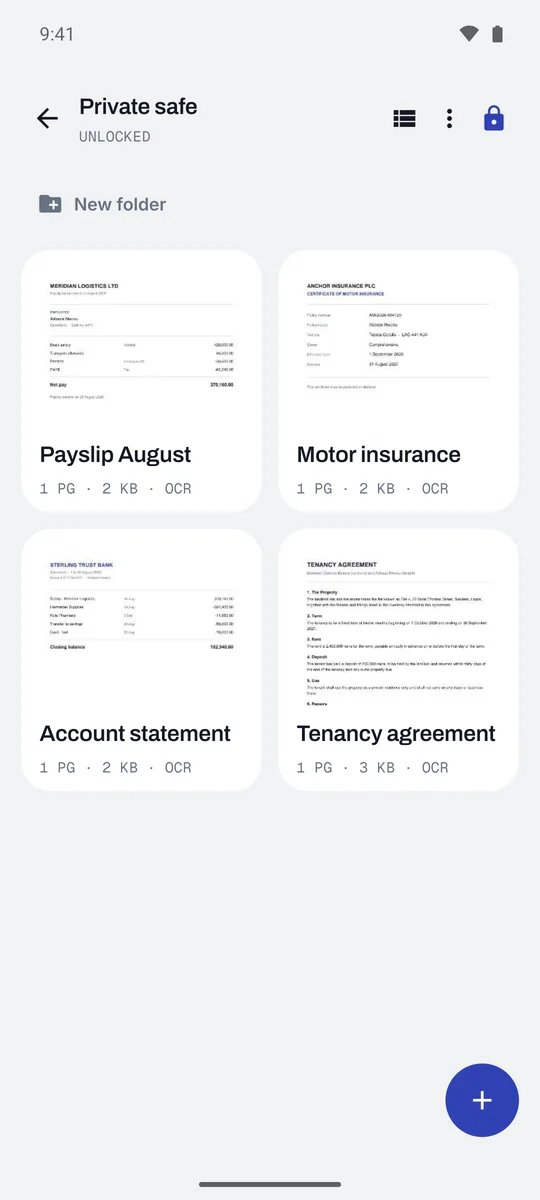
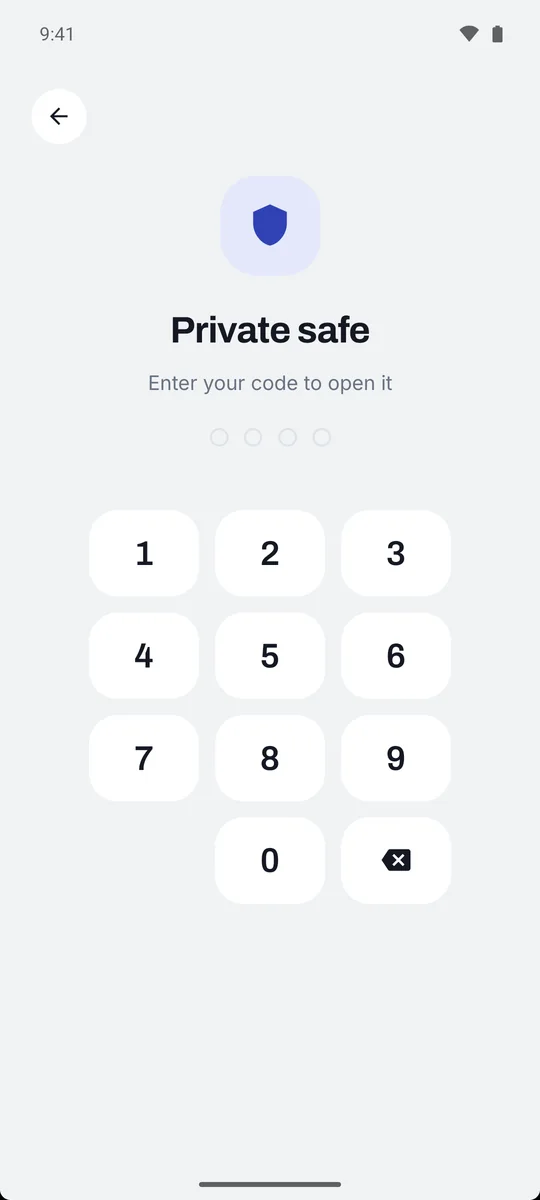
Show the safe's code screen
The safe section now shows the screen that asks for the code, rather than the documents
behind it.

diff --git a/index.html b/index.html
@@ -271,7 +271,7 @@ img { max-width:100%; }
         <li>On your phone it blocks screenshots and screen recording, and hides in the recent-apps switcher</li>
       </ul>
     </div>
-    <div class="shot"><figure class="phone "><img src="/document-scanner/assets/safe.webp" width="540" height="1200" alt="Inside the private safe: documents kept out of the library, behind one code" loading="lazy" decoding="async"></figure></div>
+    <div class="shot"><figure class="phone "><img src="/document-scanner/assets/safe.webp" width="540" height="1200" alt="The private safe's lock screen, asking for the code before anything inside is shown" loading="lazy" decoding="async"></figure></div>
   </div>
 </section>
 
